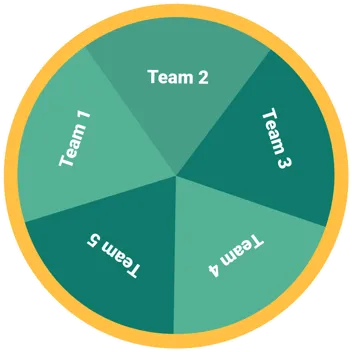
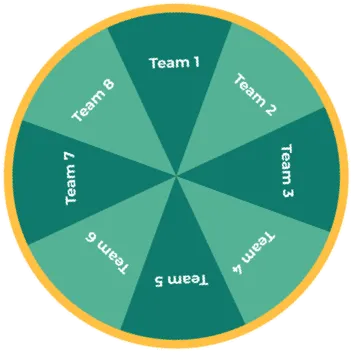
fix: update wheel image

diff --git a/src/types.ts b/src/types.ts
@@ -1,0 +1,39 @@
+// Redux
+export interface Team {
+  id: string;
+  name: string;
+  points: number;
+  sortKey: number;
+}
+
+export type Teams = Team[];
+
+export interface User {
+  id: string;
+  name: string;
+  email: string;
+  points: number;
+  teamId?: string | null;
+  createdAt: string;
+}
+
+export interface Activity {
+  id: string;
+  title: string;
+  description: string;
+  points: number;
+  start: number; // timestamp
+  end: number; // timestamp
+}
+
+export type Activities = Activity[];
+
+export interface UserActivity {
+  userId: string;
+  activityId: string;
+  points: number;
+  completed: boolean;
+  completedAt: number; // timestamp
+}
+
+export type UserActivities = UserActivity[];

diff --git a/src/features/TeamSelection/teamSlice.ts b/src/features/TeamSelection/teamSlice.ts
@@ -13,11 +13,19 @@ export interface TeamState {
 const initialState: TeamState = {
   allTeams: [
     {
-      name: 'Team 2',
+      name: 'Team 1',
       points: 0,
     },
     {
-      name: 'Team 1',
+      name: 'Team 8',
+      points: 0,
+    },
+    {
+      name: 'Team 7',
+      points: 0,
+    },
+    {
+      name: 'Team 6',
       points: 0,
     },
     {
@@ -30,6 +38,10 @@ const initialState: TeamState = {
     },
     {
       name: 'Team 3',
+      points: 0,
+    },
+    {
+      name: 'Team 2',
       points: 0,
     },
   ],
